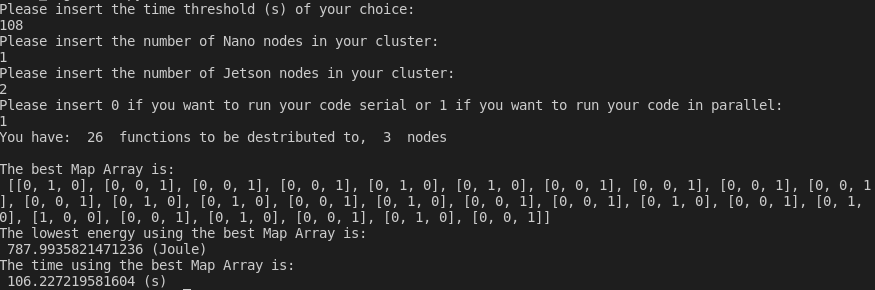
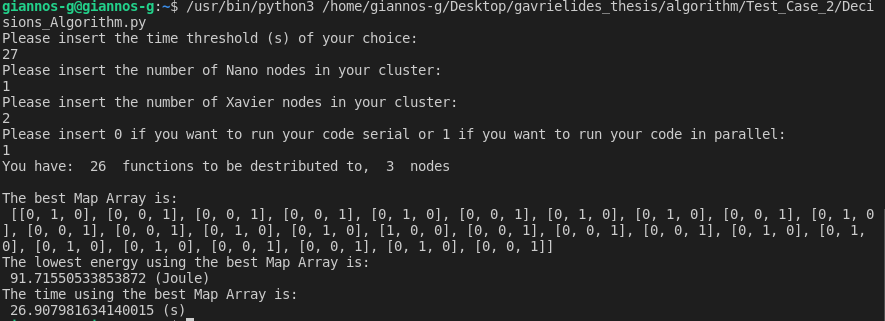
Proposals finished

Changed region(s): [[0.0, 0.0, 1.0, 1.0]]

diff --git a/algorithm/Test_Case_2/Decisions_Algorithm.py b/algorithm/Test_Case_2/Decisions_Algorithm.py
@@ -20,7 +20,7 @@ def GetNanoDetails():
     return nano_number
 
 def GetJetsonDetails():
-    jetson_number = input("Please insert the number of Jetson nodes in your cluster: \n")
+    jetson_number = input("Please insert the number of Xavier nodes in your cluster: \n")
     jetson_number = int(jetson_number)
 
     return jetson_number
